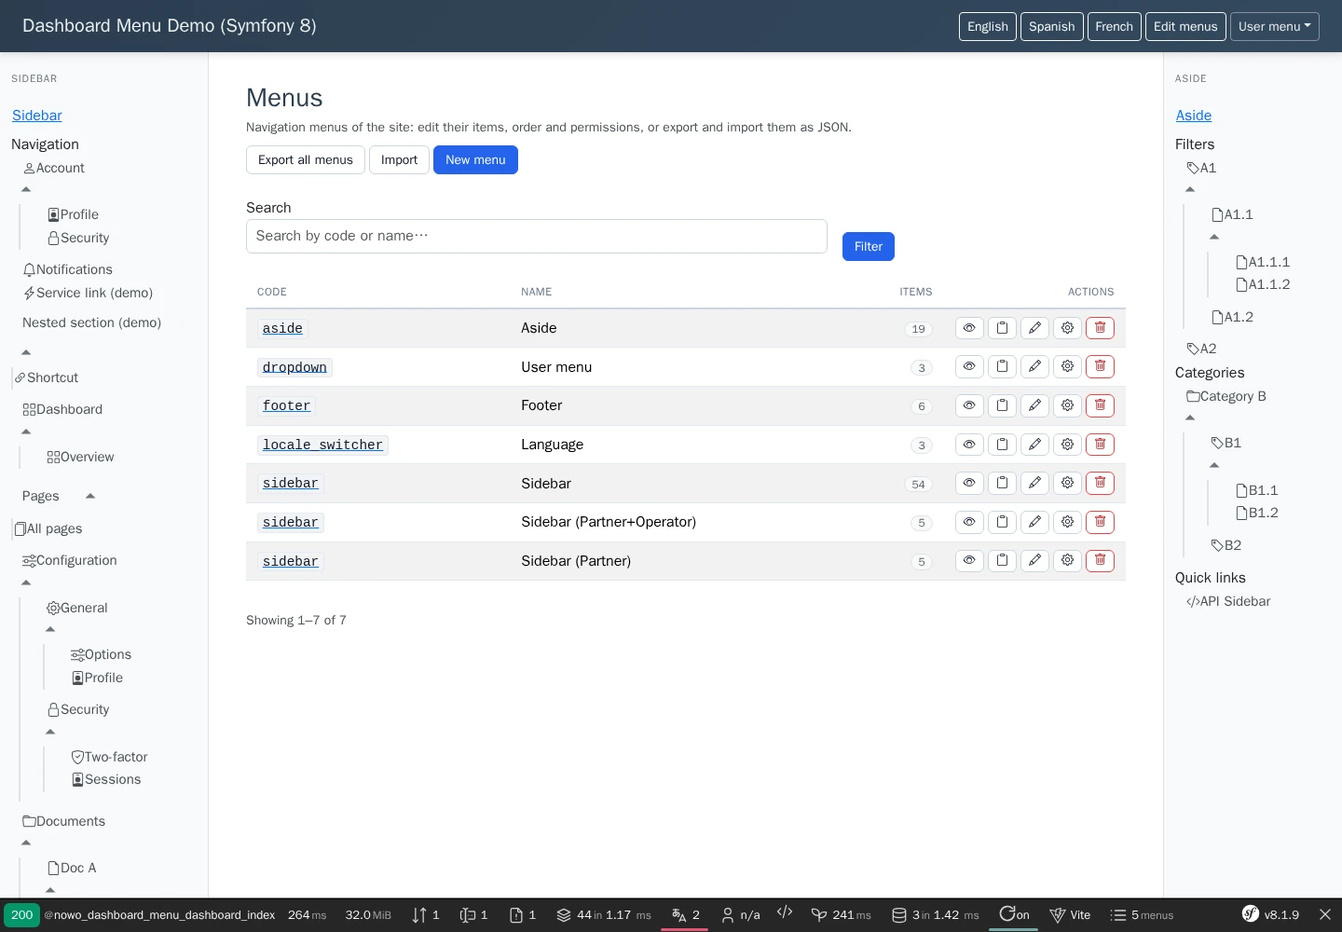
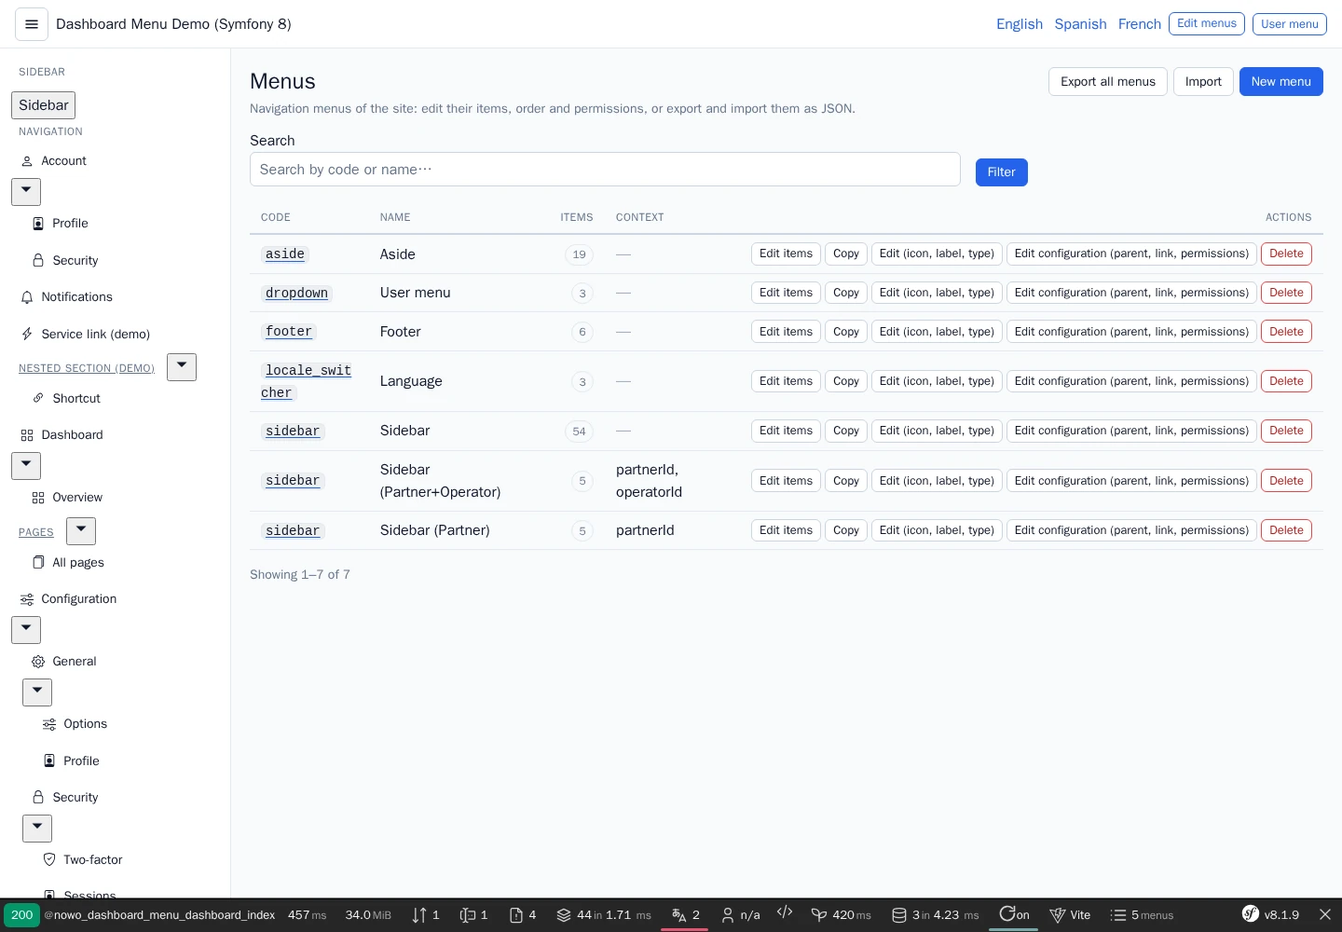
chore(docs): refresh demo screenshots on the UiKit base style (#122)
* chore(docs): refresh demo screenshots on the UiKit base style

* chore(docs): demo opts into UiKit base theme, masthead nav fixed, screenshots regenerated

* style(demo): keep strict_types in the regenerated reference.php

diff --git a/demo/symfony8/config/reference.php b/demo/symfony8/config/reference.php
@@ -1358,6 +1358,7 @@ use Symfony\Component\Config\Loader\ParamConfigurator as Param;
  *     doctrine?: array{ // Doctrine DBAL connection and table prefix for menu entities.
  *         connection?: scalar|Param|null, // Name of the Doctrine DBAL connection to use (e.g. default, or a custom connection). // Default: "default"
  *         table_prefix?: scalar|Param|null, // Prefix prepended to table names (dashboard_menu, dashboard_menu_item). Empty = no prefix. // Default: ""
+ *         entity_manager?: scalar|Param|null, // Doctrine entity manager the menu entities are mapped on (2.18), e.g. a dedicated "dashboard_menu" manager of a DDD host: mapped there only (also with auto_mapping on the default one) and every read, write and reset of the bundle uses it. Null (default) = the manager that maps them. // Default: null
  *     },
  *     cache?: array{ // Cache for the resolved menu tree (avoids N+1 and repeated DB hits). Uses filesystem when cache_pool is the default.
  *         ttl?: int|Param, // Time-to-live in seconds for the menu tree cache. Minimum 0 (0 = immediate expiry for saved items; behaviour depends on the PSR-6 pool). // Default: 60
@@ -1366,6 +1367,7 @@ use Symfony\Component\Config\Loader\ParamConfigurator as Param;
  *     icon_library_prefix_map?: array<string, scalar|Param|null>,
  *     locales?: mixed, // List of enabled locales for menu labels. When set, the request locale is used only if in this list; otherwise default_locale or the first locale is used. A literal list, or a parameter / env var holding one: "%app.locales%", "%kernel.enabled_locales%", "%env(json:APP_LOCALES)%" (resolved at runtime). // Default: []
  *     default_locale?: scalar|Param|null, // Fallback locale when the request locale is not in locales. If null, the first entry in locales is used. // Default: null
+ *     strict_permission_checker?: bool|Param, // Throw a LogicException when a menu names a permission checker that cannot be resolved. Off by default: the menu then hides its keyed items, keeps keyless ones, logs an error and shows the fallback in the profiler (so a typo never locks you out of the dashboard). // Default: false
  *     permission_checker_choices?: list<scalar|Param|null>,
  *     menu_link_resolver_choices?: list<scalar|Param|null>,
  *     api?: array{
@@ -1375,7 +1377,8 @@ use Symfony\Component\Config\Loader\ParamConfigurator as Param;
  *     menu_collapse?: array{ // Bootstrap-free nested collapse (2.6.0): menu.html.twig marks the menu root with data-dashboard-menu-collapse* attributes for public/js/menu-collapse.js. Opt-in; the script must be included by the host. See docs/USAGE.md "Nested collapse without Bootstrap JS".
  *         enabled?: bool|Param, // Emit the data-dashboard-menu-collapse* attributes on the rendered menu root (overridable per include with the menuCollapse variable). Default false: markup unchanged. // Default: false
  *         mode?: "auto"|"always"|Param, // "auto" (default): the script stands down while Bootstrap Collapse JS is loaded (no double toggle) and only restores / remembers state. "always": the script takes the toggles over (drops their data-bs-toggle). // Default: "auto"
- *         storage_key?: scalar|Param|null, // localStorage key holding { <menu code>: { <panel id>: open } }. Empty string disables persistence. // Default: "nowo.dashboardMenu.navCollapse"
+ *         storage_key?: scalar|Param|null, // localStorage key holding { <menu code>: { <panel id>: open } }. Empty string (or null) disables persistence. // Default: "nowo.dashboardMenu.navCollapse"
+ *         nested_default?: "expanded"|"collapsed"|"current"|Param, // Initial state of the nested collapsible groups rendered by menu.html.twig (2.16.0). "expanded" (default): every group open (2.15 markup). "collapsed": every group closed. "current": open only the groups whose branch contains the current item. Applies with or without the menu_collapse script; per include: menuCollapseNestedDefault. // Default: "expanded"
  *     },
  *     dashboard?: array{ // Admin dashboard to manage menus and items. Import routes with prefix (e.g. /admin/menus).
  *         enabled?: bool|Param, // Deprecated: The "nowo_dashboard_menu.dashboard.enabled.enabled" option is deprecated, use "nowo_dashboard_menu.web_ui.enabled" instead. // Deprecated alias of web_ui.enabled.
@@ -1475,6 +1478,15 @@ use Symfony\Component\Config\Loader\ParamConfigurator as Param;
  *         icon_size?: scalar|Param|null, // CSS size used to render menu item icons (applied to SVG via width/height and to legacy icons via `font-size`). Example: `1em`, `16px`, `24px`. // Default: "1em"
  *         autocomplete_bootstrap?: bool|Param, // When true (default), dashboard.js registers Symfony UX Autocomplete from esm.sh and injects the Tom Select CDN stylesheet if the host Stimulus app has not registered the controller. Set false when the host app ships UX Autocomplete and its own Tom Select styles (CSP without third-party origins). The script never re-registers a controller the host already registered. // Default: true
  *         item_span_active?: bool|Param, // When true, the item label (non-section items) is wrapped in an extra <span> element. This controls rendering of the wrapper in menu.html.twig. // Default: false
+ *         nested_group_display?: "collapsible"|"link_row"|Param, // How menu.html.twig draws a collapsible section nested in another section: "collapsible" (default, a heading link plus the chevron button) or "link_row" (one <button> toggle row in the link style: icon, label, chevron on the right; classes from group_classes). Top-level sections are unchanged. // Default: "collapsible"
+ *         group_children_marker?: "none"|"dot"|Param, // Marker of the links whose parent is a section (rendered as a nested list, not flattened): "none" (default, their icon) or "dot" (an empty <span class="group_classes.dot"> instead of the icon, styled by the host as a list bullet). // Default: "none"
+ *         toggle_icon?: scalar|Param|null, // Symfony UX icon name of the expand / collapse chevrons in menu.html.twig (e.g. "tabler:chevron-down", rendered with ux_icon and class menu-nested-toggle-svg). Null (default) keeps the inline SVG triangle. // Default: null
+ *         group_classes?: array{ // CSS classes of the markup added by nested_group_display "link_row" and group_children_marker "dot".
+ *             toggle?: scalar|Param|null, // Class added to the link-row <button> (after the link classes). // Default: "menu-group-toggle"
+ *             label?: scalar|Param|null, // Class of the <span> holding the group label. // Default: "menu-group-label"
+ *             chevron?: scalar|Param|null, // Class of the chevron icon of the link row. // Default: "menu-group-chevron"
+ *             dot?: scalar|Param|null, // Class of the dot <span> of the group children. // Default: "menu-group-dot"
+ *         },
  *         css_class_options?: array{ // Lists of CSS classes shown as selectors in the dashboard when editing a menu. Override in app config to customize options.
  *             menu?: list<scalar|Param|null>,
  *             item?: list<scalar|Param|null>,
@@ -1514,14 +1526,19 @@ use Symfony\Component\Config\Loader\ParamConfigurator as Param;
  *     css_framework?: "bootstrap"|"bootstrap5"|"bootstrap4"|"tailwind"|"foundation"|"custom"|"tabler"|"none"|Param, // Host CSS stack: bootstrap5|bootstrap4|tailwind|foundation|custom|none|tabler (bootstrap alias → bootstrap5). // Default: "bootstrap5"
  *     icon_set?: "bootstrap-icons"|"tabler-icons"|"ux_icon"|"svg_inline"|"none"|Param, // Icon rendering: bootstrap-icons|tabler-icons|ux_icon|svg_inline|none. // Default: "bootstrap-icons"
  *     row_actions_display?: "icon"|"text"|"icon_text"|Param, // Table/list row actions: icon (glyph only) | text (label only) | icon_text (both). // Default: "icon"
+ *     row_actions_confirm?: "inline"|"native"|"dialog"|Param, // confirm_message of 1.x row_actions POST hashes (2.22, REQ-UI-003): inline = onsubmit="return confirm(…)" (default, unchanged markup); native | dialog = no inline handler, the confirm-submit Stimulus peer asks (window.confirm or the kit <dialog>). native / dialog need the confirm-submit peer registered. // Default: "inline"
+ *     action_icons?: array<string, scalar|Param|null>,
+ *     action_variants?: array<string, scalar|Param|null>,
  *     panel_path_rewrites?: array<string, scalar|Param|null>,
  *     release_check?: array{ // Optional GitHub release-version checker (footer dialog + JSON endpoint). Off by default.
- *         enabled?: bool|Param, // Register the checker service + controller. Also import @NowoUiKitBundle/Resources/config/routes/release_check.yaml. // Default: false
+ *         enabled?: bool|Param, // Register the checker service + controller. Also import @NowoUiKitBundle/Resources/config/routes/release_check.yaml. Since 2.33 also a container parameter or "%env(bool:…)%" (false at runtime = the check is skipped and the endpoint answers 404). // Default: false
  *         github_repo?: scalar|Param|null, // Public GitHub repository "owner/name" whose releases are compared (e.g. nowo-tech/my-app). // Default: ""
  *         current_version?: scalar|Param|null, // Installed version label, clean semver x.y.z with optional "v" (e.g. "%app.version%"). Non-semver values skip the check. // Default: ""
  *         cache_ttl?: int|Param, // Seconds to cache the GitHub answer (cache.app). Default 12h. // Default: 43200
  *         default_branch?: scalar|Param|null, // Branch used as compare target when the installed version is already the latest. // Default: "main"
  *         user_agent?: scalar|Param|null, // User-Agent sent to api.github.com. // Default: "nowo-ui-kit-release-check"
+ *         timeout?: float|Param, // Idle timeout in seconds of the GitHub "releases/latest" request (HttpClient "timeout"). Keep it below PHP max_execution_time (REQ-RUNTIME-001). // Default: 5.0
+ *         releases_timeout?: float|Param, // Idle timeout in seconds of the GitHub "releases" listing used to count versions behind. Keep it below PHP max_execution_time (REQ-RUNTIME-001). // Default: 8.0
  *     },
  *     route_links?: array{ // Route (or route prefix) → link map read by nowo_ui_route_link(), e.g. for the page-edge "manual" tab (partials/_edge_tab.html.twig). A prefix matches the route itself or any route starting with "<prefix>_"; the longest prefix wins.
  *         base_url?: scalar|Param|null, // Prepended to every relative path (paths starting with "/", "//", "http://" or "https://" are used as is). // Default: ""
@@ -1531,9 +1548,21 @@ use Symfony\Component\Config\Loader\ParamConfigurator as Param;
  *             testid?: scalar|Param|null, // Default: null
  *         }>,
  *     },
+ *     base_stylesheet?: bool|Param, // 2.51: link UiKit's opt-in default theme (css/nowo-ui-base.css) before nowo-ui.css in the document / error layouts: body font stack, page gutters and masthead height for hosts that bring no CSS framework and no theme stylesheet. Its rules nest in `@layer theme.nowo-ui-base`, below `base`, so a framework, host utilities and unlayered host CSS still win. Leave it false when the host already has a framework or a theme file. // Default: false
+ *     font_preload?: array{ // 2.21: <link rel="preload" as="font" crossorigin> tags printed in the <head> of the document and error layouts (Twig nowo_ui_font_preload()) for the fonts painted above the fold. Empty = no tags.
+ *         fonts?: list<scalar|Param|null>,
+ *         manifest?: array{ // Hashed builds: pick the fonts from a Vite manifest (.vite/manifest.json). A missing manifest (dev server) prints nothing.
+ *             path?: scalar|Param|null, // Absolute path of the manifest, e.g. "%kernel.project_dir%/public/build/.vite/manifest.json"; null = off. // Default: null
+ *             entry?: scalar|Param|null, // Manifest entry whose "assets" list holds the fonts. // Default: "assets/app.js"
+ *             prefixes?: list<scalar|Param|null>,
+ *             base?: scalar|Param|null, // Public URL prefix of the manifest assets. // Default: "/build/"
+ *         },
+ *     },
  *     appearance?: array{ // Optional site appearance SPI (presets, --nowo-ui-* token emitter, Twig functions). Off by default.
  *         enabled?: bool|Param, // Default: false
- *         provider?: scalar|Param|null, // Service id implementing AppearanceProviderInterface (host storage). Null = the config defaults below. // Default: null
+ *         provider?: scalar|Param|null, // Service id implementing AppearanceProviderInterface (host storage). Null = the config defaults below (or, 2.40, the brand provider: see brand). // Default: null
+ *         brand?: "auto"|"off"|Param, // 2.40 (spec 220): auto = with provider null and a nowo-tech/brand-contracts BrandProviderInterface service, the brand drives the name, eyebrow, colours and logos (corner, border and footer stay from defaults). off = always the defaults. No brand service = no change. // Default: "auto"
+ *         head_links?: bool|Param, // 2.40: the kit layouts (document, error) print nowo_ui_appearance_head() in <head>: favicon / apple-touch links of the appearance logos and meta theme-color (paper colour per colour scheme). Off = the 2.39 <head>. // Default: false
  *         defaults?: array{
  *             brand_name?: scalar|Param|null, // Default: ""
  *             brand_eyebrow?: scalar|Param|null, // Default: ""
@@ -1583,6 +1612,20 @@ use Symfony\Component\Config\Loader\ParamConfigurator as Param;
  *         collection?: scalar|Param|null, // BreadcrumbKit collection code (null = its default collection). PageHeader::breadcrumbCollection overrides it. // Default: null
  *         enabled?: bool|Param, // 2.3.1: false drops the breadcrumb trail (BreadcrumbKit and PageHeader::breadcrumbs) from every page header, e.g. when the host layout renders its own. // Default: true
  *     },
+ *     header?: array{ // 2.27 compact header: the default page-header presentation (a request attribute _nowo_ui_header_presentation overrides it per request) and where PageHeader::actions go in the compact presentation.
+ *         presentation?: "standard"|"compact"|"inline"|"no_intro"|"no_title"|"no_header"|Param, // standard (default) | compact | inline | no_intro | no_title | no_header: in compact the page header keeps a visually hidden h1 and leaves its intro, breadcrumbs and back link to the top bar (header_context); 2.39: inline puts the intro on the title row, no_intro drops the intro, no_title keeps the h1 visually hidden, no_header does both. // Default: "standard"
+ *         compact_actions?: "page"|"bar"|Param, // page (default): header.actions stay in the page header; bar: in the compact presentation the page header leaves them out (the host shows them in the top bar through the page_actions partial). extra_actions always stay. // Default: "page"
+ *     },
+ *     auth_panel?: array{ // 2.44: the auth scaffold (page/auth.html.twig) panel (Twig global nowo_ui_kit_auth_panel).
+ *         brand?: "auto"|"none"|Param, // auto (default, the 2.43 markup): the panel brand region prints the appearance logo lockup, else AuthPage::brand as text; none: the panel prints no brand region (a host guest layout that prints its own brand). A render variable nowo_ui_auth_brand (auto | none) wins over it. // Default: "auto"
+ *     },
+ *     remote_dialog?: array{ // 2.28 remote form dialog (X-Nowo-Dialog requests).
+ *         convert_redirects?: bool|Param, // Turn a RedirectResponse answered to a dialog request (X-Nowo-Dialog: 1, main request) into 204 + X-Nowo-Redirect when its Location is a same-origin path, so redirectToRoute() controllers work in the dialog without code changes. // Default: false
+ *         step_routes?: list<scalar|Param|null>,
+ *         request_header?: scalar|Param|null, // 2.33: request header the dialog sends with "1" (both drivers, RemoteDialogResponder, the redirect listener, nowo_ui_dialog_request()). // Default: "X-Nowo-Dialog"
+ *         redirect_header?: scalar|Param|null, // 2.33: response header of the success answer (204 + <path>: the dialog closes and the page goes there). // Default: "X-Nowo-Redirect"
+ *         location_header?: scalar|Param|null, // 2.33: response header of the step answer (204 + <path>: the dialog stays open and loads the next step). // Default: "X-Nowo-Dialog-Location"
+ *     },
  *     theme?: array{ // Global theme (REQ-UI-003): semantic slot classes / attributes, partial overrides and --nowo-ui-* tokens, configured once for every bundle.
  *         framework_defaults?: bool|Param, // false = slots print the semantic nowo-ui-* class and the host classes only (no UiKit framework defaults such as btn / badge / card). Per slot: classes.<slot>: {value: …, framework_defaults: false}. // Default: true
  *         classes?: array<string, mixed>,
@@ -1592,6 +1635,11 @@ use Symfony\Component\Config\Loader\ParamConfigurator as Param;
  *         tokens_dark?: array<string, mixed>,
  *         confirm_message_in_header?: bool|Param, // Confirm dialogs and the full-page confirm render the message inside the header, under the title (hosts whose dialog header is title + message). View\Confirm::messageInHeader wins when set. // Default: false
  *         popover_menus?: bool|Param, // 2.4: menu / kebab / row-action menus render their panel as a native [popover] (browser top layer: never clipped by table scrollers or cards; nowo-ui-popover.js places it). The partial option `popover` wins. // Default: false
+ *         form_errors_after_widget?: bool|Param, // 2.10: the UiKit form theme (form/nowo_ui_layout.html.twig) prints a field's errors after its widget (and before the help), instead of Symfony's order (label, errors, widget, help). // Default: false
+ *         menu_semantics?: null|"menu"|"disclosure"|Param, // 2.28: ARIA of popover menus with items. null (default) = as 2.27; menu = APG menu button (role="menu" / menuitem, arrow keys in nowo-ui-popover.js); disclosure = no aria-haspopup. The menu partial option `menu_semantics` wins. // Default: null
+ *         dialog?: array{ // 2.31: kit dialog options (docs/THEMING.md#dialog-sizes-229).
+ *             height?: "content"|"size"|Param, // 2.31: content (default, dialog rule v2) = a dialog is as tall as its content, capped at min(the size's height token, 100dvh - 2rem), only the body scrolls; size = every dialog with a field, list, table or fold has the size's height (2.29 / 2.30), printed as --nowo-ui-dialog-fill: 1 by nowo_ui_theme_css(). // Default: "content"
+ *         },
  *         bundles?: array<string, array{ // Default: []
  *             framework_defaults?: bool|Param, // Override of theme.framework_defaults for this bundle (unset = inherit).
  *             classes?: array<string, mixed>,
@@ -1610,6 +1658,25 @@ use Symfony\Component\Config\Loader\ParamConfigurator as Param;
  *             classes?: array<string, mixed>,
  *             attributes?: array<string, array<string, mixed>>,
  *             header_actions_in_filters?: bool|Param, // list only: render the page-header actions at the end of the filter row instead of the page header (ListPage::headerActionsInFilters wins when set; unset = false).
+ *             filters?: array{ // list only (2.30): host options of the list scaffold filters (page/_list_filters.html.twig). Unset = the 2.29 output.
+ *                 display?: null|"text"|"icon"|"icon_text"|Param, // Default display of the apply / clear / extra filter buttons (ListPage::filtersDisplay and Action::display win; set, the plain clear link follows it too). null = the 2.29 behaviour. // Default: null
+ *                 submit_icon?: scalar|Param|null, // Icon of the apply button when it shows one (components/_icon.html.twig name; null = filter). ListPage::filtersSubmit->icon wins. // Default: null
+ *                 clear_icon?: scalar|Param|null, // Icon of the plain clear link (ListPage::filtersClearHref) when it shows one (null = filter_off). // Default: null
+ *                 submit_class?: scalar|Param|null, // Host classes of the apply button, replacing its btn_<variant> slot classes (nowo-ui-filters__submit and, icon-only, the btn_icon slot stay). null = the slot classes. // Default: null
+ *                 clear_class?: scalar|Param|null, // Host classes of the clear button (plain link or ListPage::filtersClear Action), replacing its btn_<variant> slot classes. null = the slot classes. // Default: null
+ *                 grid?: scalar|Param|null, // Grid tracks of the filter fields: auto-fit (default: a lone filter stretches across the card), auto-fill (empty tracks keep their width) or a grid-template-columns track list such as "repeat(auto-fill, minmax(min(100%, 13rem), 1fr))" (printed as the --nowo-ui-filters-grid-columns token by nowo_ui_tokens(); no inline style). // Default: "auto-fit"
+ *                 fold?: array{ // Fold toggle of the filters card (partials/_filters_collapse.html.twig, Stimulus peer filters-collapse). ListPage::filtersFold wins.
+ *                     enabled?: bool|Param, // Render the fold toggle (the card renders open unless the cookie remembers it folded). // Default: false
+ *                     cookie?: scalar|Param|null, // Cookie remembering the folded pages (comma-separated page keys; SameSite=Lax, no secrets). // Default: "nowo_ui_filters_collapsed"
+ *                     cookie_path?: scalar|Param|null, // Path of that cookie. // Default: "/"
+ *                     icons?: array{
+ *                         expanded?: scalar|Param|null, // Icon while the card is open. // Default: "chevron_up"
+ *                         collapsed?: scalar|Param|null, // Icon while the card is folded. // Default: "chevron_down"
+ *                     },
+ *                     testids?: bool|Param, // data-testid filters-collapse-toggle / filters-collapse-summary. // Default: false
+ *                     morph?: bool|Param, // Add the <morph-icon> of assets/morphicons to the toggle. // Default: false
+ *                 },
+ *             },
  *         }>,
  *     },
  *     error_pages?: array{ // Kit error pages (2.6): templates/bundles/TwigBundle/Exception/error.html.twig = {% extends '@NowoUiKit/error/status.html.twig' %}.
@@ -1626,6 +1693,8 @@ use Symfony\Component\Config\Loader\ParamConfigurator as Param;
  *         }>,
  *         illustration_width?: int|Param, // Default intrinsic width of the illustrations. // Default: 1024
  *         illustration_height?: int|Param, // Default intrinsic height of the illustrations. // Default: 683
+ *         illustration_provider?: scalar|Param|null, // 2.47: service id implementing Nowo\UiKitBundle\View\ErrorIllustrationProviderInterface, asked first per status code (null answer, any exception or an invalid illustration → the illustrations map). Must be fast and must not need the database. Null = the map only. // Default: null
+ *         illustration_provider_budget_ms?: int|Param, // 2.47: when > 0, a provider call slower than this many milliseconds makes the rest of the same request skip the provider (logged once). 0 = no budget. // Default: 0
  *         webp?: bool|Param, // Illustrations ship a .webp next to the fallback image (<source type="image/webp">). // Default: true
  *         retry_statuses?: list<int|Param>,
  *         back_link_statuses?: list<int|Param>,
@@ -1640,6 +1709,13 @@ use Symfony\Component\Config\Loader\ParamConfigurator as Param;
  *         sidebar_hidden_value?: scalar|Param|null, // Cookie value of the hidden aside. // Default: "collapsed"
  *         sidebar_rail_value?: scalar|Param|null, // Cookie value of the icons-only rail. // Default: "rail"
  *         sidebar_storage?: scalar|Param|null, // localStorage key of the aside mode (data-nowo-ui-sidebar-storage on the shell root; kit_styles + rail only). // Default: null
+ *         sidebar_layout?: "below-header"|"full-height"|Param, // 2.32: below-header (default, the 2.31 markup byte for byte) | full-height: on desktop the aside runs from the top edge with the burger and the brand in its head (aside_brand_html / brand_icon_html + brand_name / brand_html), the header and the footer start at its right edge. The app_shell_open option sidebar_layout, then the request attribute _nowo_ui_sidebar_layout, win over it. // Default: "below-header"
+ *         brand?: array{ // 2.32: the shell brand from config (no template override): the aside head of the full-height layout, and the header brand when a page passes neither brand_html nor brand. The app_shell_open options brand_name / brand_href / brand_icon_src / brand_icon_html / aside_brand_html win.
+ *             name?: scalar|Param|null, // Brand name (text); the icons-only rail hides it and keeps it as the link name. // Default: null
+ *             href?: scalar|Param|null, // Brand link: relative, http, https or mailto (validated when the container compiles; javascript:, data: and other schemes are refused). // Default: null
+ *             icon_src?: scalar|Param|null, // Brand icon image URL (e.g. /images/logo.svg; prefer same-origin or https), rendered as <img> in every aside mode; without it the name's initial. Relative, http or https only (validated when the container compiles). // Default: null
+ *         },
+ *         hover_expand?: bool|Param, // 2.32: with kit_styles and rail_mode, the icons-only rail widens over the page while the pointer or the keyboard focus is on it (data-nowo-ui-sidebar-hover-expand on the shell root, is-aside-peek set by nowo-ui-shell.js). The app_shell_open option hover_expand wins. // Default: false
  *     },
  * }
  * @psalm-type NowoFormKitConfig = array{

diff --git a/docs/CHANGELOG.md b/docs/CHANGELOG.md
@@ -124,6 +124,11 @@ and this project adheres to [Semantic Versioning](https://semver.org/spec/v2.0.0
 
 ## [Unreleased]
 
+### Changed
+
+- docs: demo screenshots regenerated on the UiKit base style
+- demo: opt into UiKit 2.51 `nowo_ui_kit.base_stylesheet`, use `nowo-ui-header__nav` for the masthead nav, screenshots regenerated with the themed shell
+
 ## [2.21.1] - 2026-11-13
 
 ### Fixed
